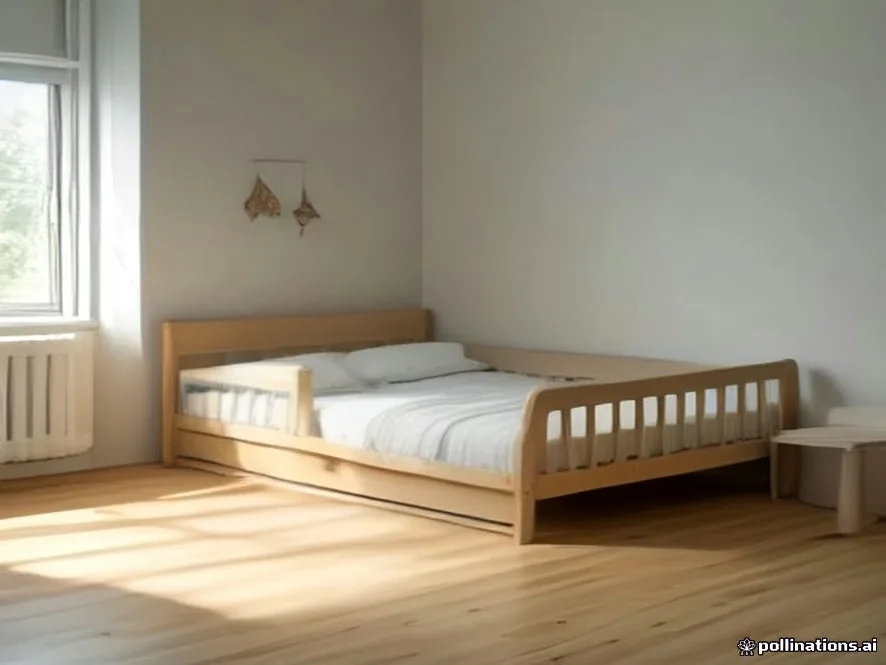
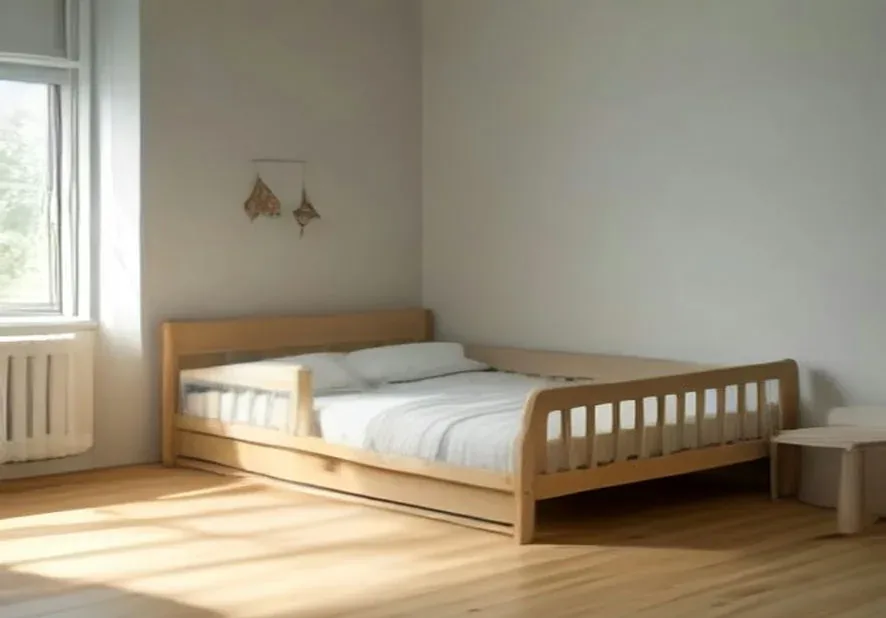
fix: crop pollinations watermark, reuse webp helper, vision QC verified live
Generated with [Devin](https://devin.ai)

diff --git a/scripts/generate_article.py b/scripts/generate_article.py
@@ -230,8 +230,11 @@ def inspect_image(data: bytes) -> bool:
 def _to_webp(raw: bytes) -> bytes:
     from io import BytesIO
     from PIL import Image
+    im = Image.open(BytesIO(raw)).convert("RGB")
+    w, h = im.size
+    im = im.crop((0, 0, w, int(h * 0.93)))  # retire le watermark pollinations en bas
     buf = BytesIO()
-    Image.open(BytesIO(raw)).convert("RGB").save(buf, "WEBP", quality=82, method=6)
+    im.save(buf, "WEBP", quality=82, method=6)
     return buf.getvalue()
 
 
@@ -291,9 +294,8 @@ def generate_image(prompt: str, slug: str) -> bytes | None:
         img.raise_for_status()
         from io import BytesIO
         from PIL import Image
-        buf = BytesIO()
-        Image.open(BytesIO(img.content)).convert("RGB").save(buf, "WEBP", quality=82, method=6)
-        return buf.getvalue() if inspect_image(buf.getvalue()) else None
+        data = _to_webp(img.content)
+        return data if inspect_image(data) else None
     except Exception as e:
         print(f"⚠ image non générée : {e}", file=sys.stderr)
         return None
